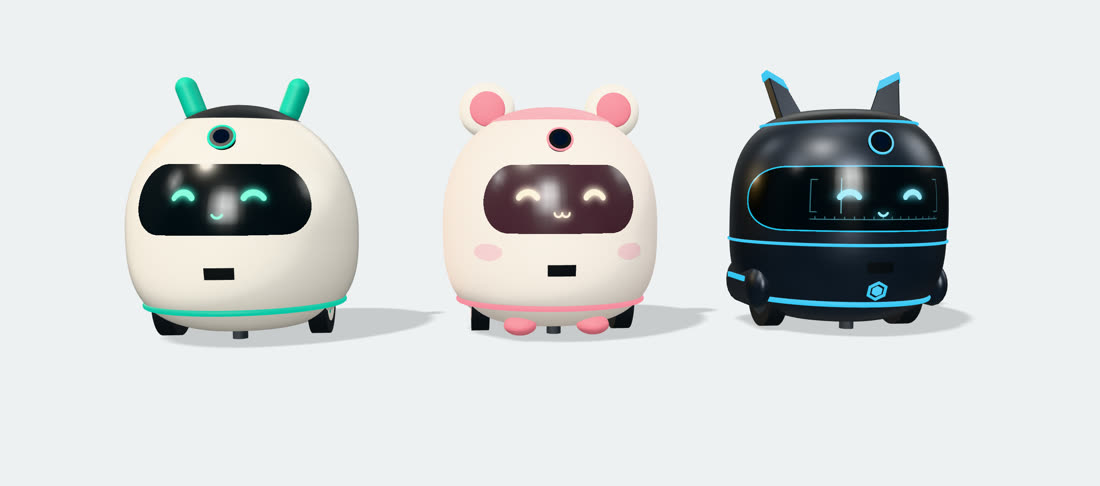
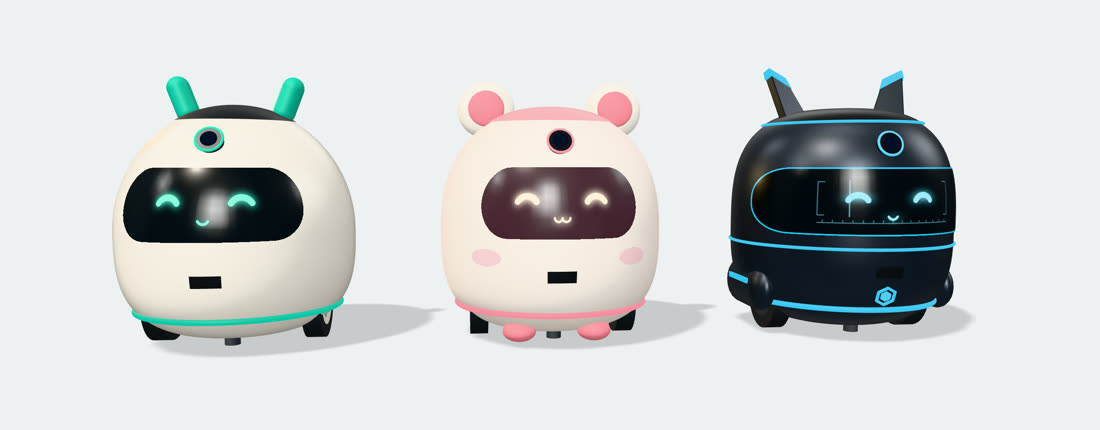
首屏名字不再遮挡机器人；新增三款差异对比表

Changed region(s): [[0.0927, 0.1512, 0.8964, 0.8465]]

diff --git a/index.html b/index.html
@@ -48,7 +48,18 @@
 <link rel="stylesheet" href="phone.css">
 <style>
   /* 页面 CSS：只管图片框内部和卡片组的高度 */
-  @media (min-width: 640px) { .hero--product .hero__stage { margin-bottom: 0; } }
+  @media (min-width: 640px) {
+    .hero--product .hero__stage { margin-bottom: 0; min-height: 0; overflow: hidden; }
+    .hero--product .hero__stage img { position: absolute; inset: 0; width: 100%; height: 100%; object-fit: contain; object-position: 50% 100%; }
+  }
+  .cmp { width: 100%; border-collapse: collapse; font-size: 16px; }
+  .cmp th, .cmp td { text-align: left; vertical-align: top; padding: 14px 24px 14px 0; border-bottom: 1px solid var(--line); }
+  .cmp thead th { font-weight: 500; font-size: 20px; padding-top: 0; }
+  .cmp thead th small { display: block; font-size: 14px; font-weight: 400; color: var(--p-muted); }
+  .cmp tbody th { font-weight: 400; color: var(--p-muted); width: 16%; white-space: nowrap; }
+  .cmp td { width: 28%; }
+  .cmp i { display: inline-block; width: 12px; height: 12px; border-radius: 50%; margin-right: 6px; vertical-align: -1px; box-shadow: inset 0 0 0 1px rgba(11, 12, 14, 0.18); }
+  @media (max-width: 639px) { .cmp { font-size: 14px; } .cmp th, .cmp td { padding: 10px 10px 10px 0; } .cmp thead th { font-size: 15px; } .cmp tbody th { white-space: normal; } }
   .hero__names { position: relative; z-index: 2; flex: none; display: grid; grid-template-columns: repeat(3, 1fr); text-align: center; padding-top: 8px; }
   .hero__names a { display: grid; gap: 2px; justify-items: center; padding: 8px 0; text-decoration: none; color: var(--p-ink); border-radius: 12px; transition: background .2s; }
   .hero__names a:hover { background: rgba(11, 12, 14, 0.05); }
@@ -119,12 +130,31 @@
       <div class="hero__stage">
         <picture><source media="(max-width: 639px)" srcset="img/lineup-phone.jpg" width="840" height="840"><img src="img/lineup.jpg" alt="三台 Nomi 并排：米白色的 N1、带熊耳朵的 Mochi、石墨黑的 Nova" width="2560" height="1132" fetchpriority="high"></picture>
       </div>
-      <div class="hero__names" id="styles">
+      <div class="hero__names">
         <a href="sim.html?style=nomi"><b>Nomi N1</b><span>简约 · 胶囊耳朵</span></a>
         <a href="sim.html?style=cute"><b>Nomi Mochi</b><span>可爱 · 熊耳朵和腮红</span></a>
         <a href="sim.html?style=scifi"><b>Nomi Nova</b><span>科幻 · 面罩和灯带</span></a>
       </div>
     </div></div>
+  </section>
+
+  <section class="section" id="styles" aria-labelledby="styles-h">
+    <div class="wrap">
+      <div class="section-head"><h2 id="styles-h">三款差在哪。<span class="muted">主板、电池、电机和摄像头完全一样。</span></h2></div>
+      <table class="cmp">
+        <thead><tr><th scope="col"><span class="sr-only">项目</span></th><th scope="col">Nomi N1<small>简约</small></th><th scope="col">Nomi Mochi<small>可爱</small></th><th scope="col">Nomi Nova<small>科幻</small></th></tr></thead>
+        <tbody>
+          <tr><th scope="row">颜色</th><td><i style="background:#f6f2ea"></i><i style="background:#12b89a"></i>米白配青绿</td><td><i style="background:#fffaf3"></i><i style="background:#ff8fa3"></i>奶白配粉色</td><td><i style="background:#3a414c"></i><i style="background:#2fd0ff"></i>石墨黑配冰蓝</td></tr>
+          <tr><th scope="row">外壳工艺</th><td>高光免喷涂</td><td>亲肤手感漆</td><td>金属漆加 UV 光油</td></tr>
+          <tr><th scope="row">头顶</th><td>胶囊形硅胶耳朵</td><td>加大的熊耳朵，内侧粉色</td><td>向外张开的天线鳍片，尖端发光</td></tr>
+          <tr><th scope="row">脸</th><td>长条眼睛</td><td>大圆眼、猫咪嘴，腮红印在壳上</td><td>环绕面罩，带取景框和扫描线</td></tr>
+          <tr><th scope="row">灯光</th><td>底部一圈灯环</td><td>底部一圈灯环</td><td>底部、腰部、顶盖三圈灯带，胸口核心灯</td></tr>
+          <tr><th scope="row">多出的零件</th><td>无</td><td>小脚丫、小尾巴</td><td>两侧轮舱护甲</td></tr>
+          <tr><th scope="row">声音与性格</th><td>平和</td><td>童声，软萌</td><td>沉稳电子感，简练</td></tr>
+          <tr><th scope="row">单台成本</th><td>约 586 元</td><td>约 594 元（多 8 元）</td><td>约 600 元（多 14 元）</td></tr>
+        </tbody>
+      </table>
+    </div>
   </section>
 
   <section class="section" id="modes" aria-labelledby="modes-h">
